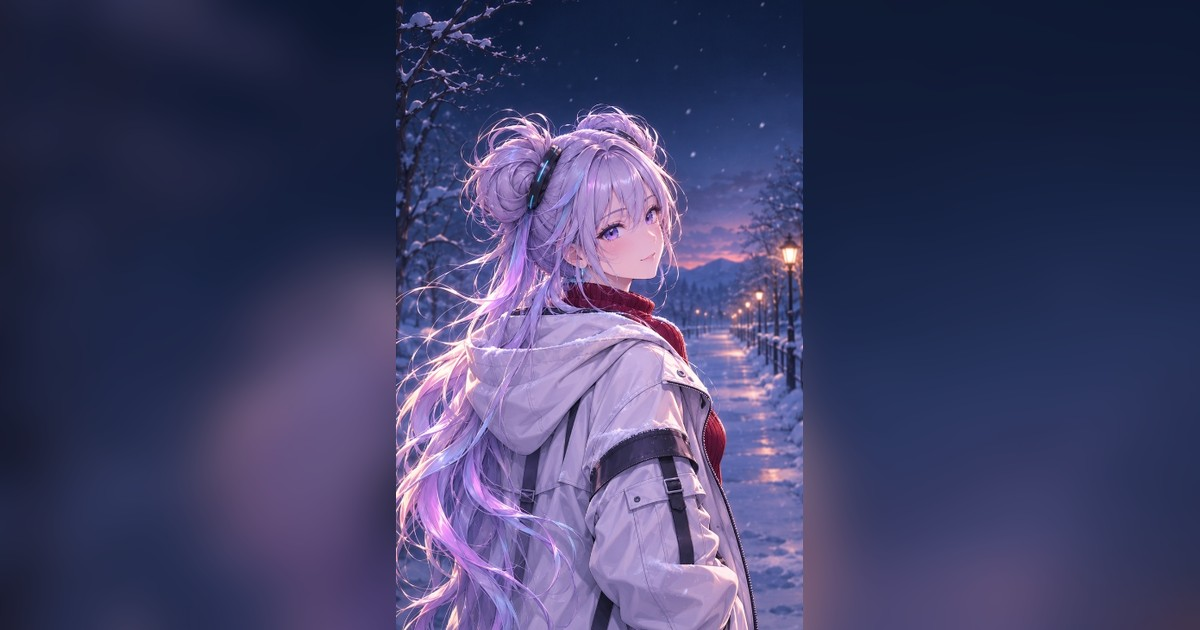
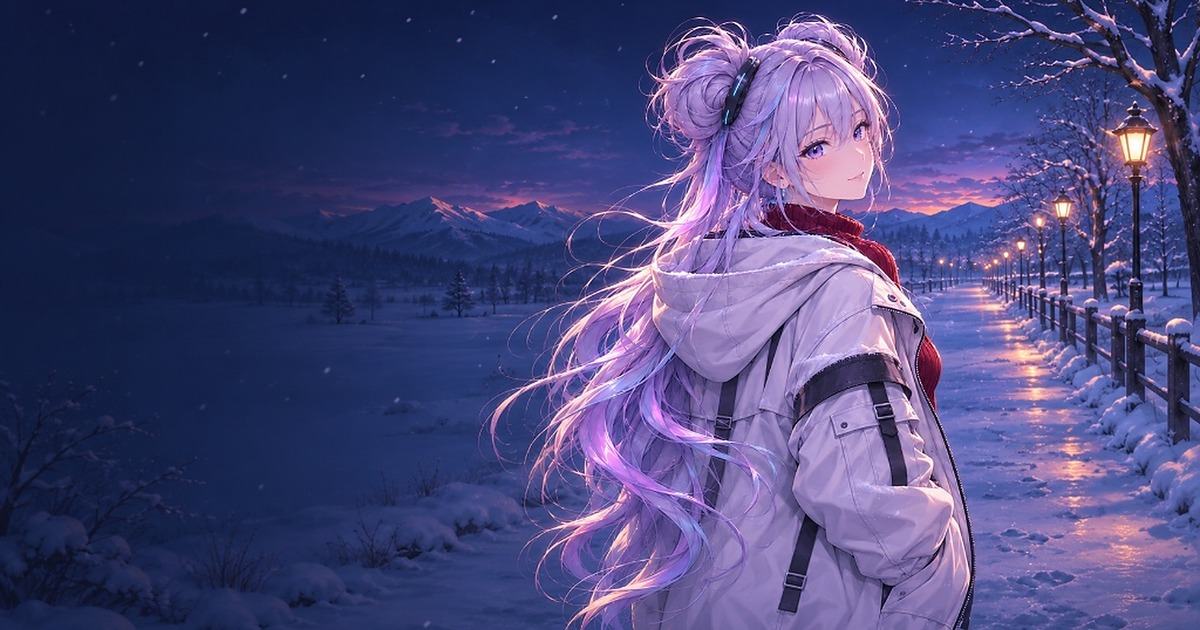
chore: upgrade full-bleed 1200x630 og-thumbnail and cache-bust OG tags

diff --git a/index.html b/index.html
@@ -25,14 +25,17 @@
     <meta property="og:title" content="HD2 Launcher" />
     <meta property="og:description" content="HD2Lab Service Hub · AI Hub 통합 웹앱 런처" />
     <meta property="og:url" content="https://launcher.hd2lab.duckdns.org/" />
-    <meta property="og:image" content="https://launcher.hd2lab.duckdns.org/og-thumbnail.jpg" />
+    <meta property="og:image" content="https://launcher.hd2lab.duckdns.org/og-thumbnail.jpg?v=20261119" />
+    <meta property="og:image:secure_url" content="https://launcher.hd2lab.duckdns.org/og-thumbnail.jpg?v=20261119" />
+    <meta property="og:image:type" content="image/jpeg" />
     <meta property="og:image:width" content="1200" />
     <meta property="og:image:height" content="630" />
+    <meta property="og:image:alt" content="HD2 Launcher" />
 
     <meta name="twitter:card" content="summary_large_image" />
     <meta name="twitter:title" content="HD2 Launcher" />
     <meta name="twitter:description" content="HD2Lab Service Hub · AI Hub 통합 웹앱 런처" />
-    <meta name="twitter:image" content="https://launcher.hd2lab.duckdns.org/og-thumbnail.jpg" />
+    <meta name="twitter:image" content="https://launcher.hd2lab.duckdns.org/og-thumbnail.jpg?v=20261119" />
 
     <title>HD2 Launcher</title>
   </head>
